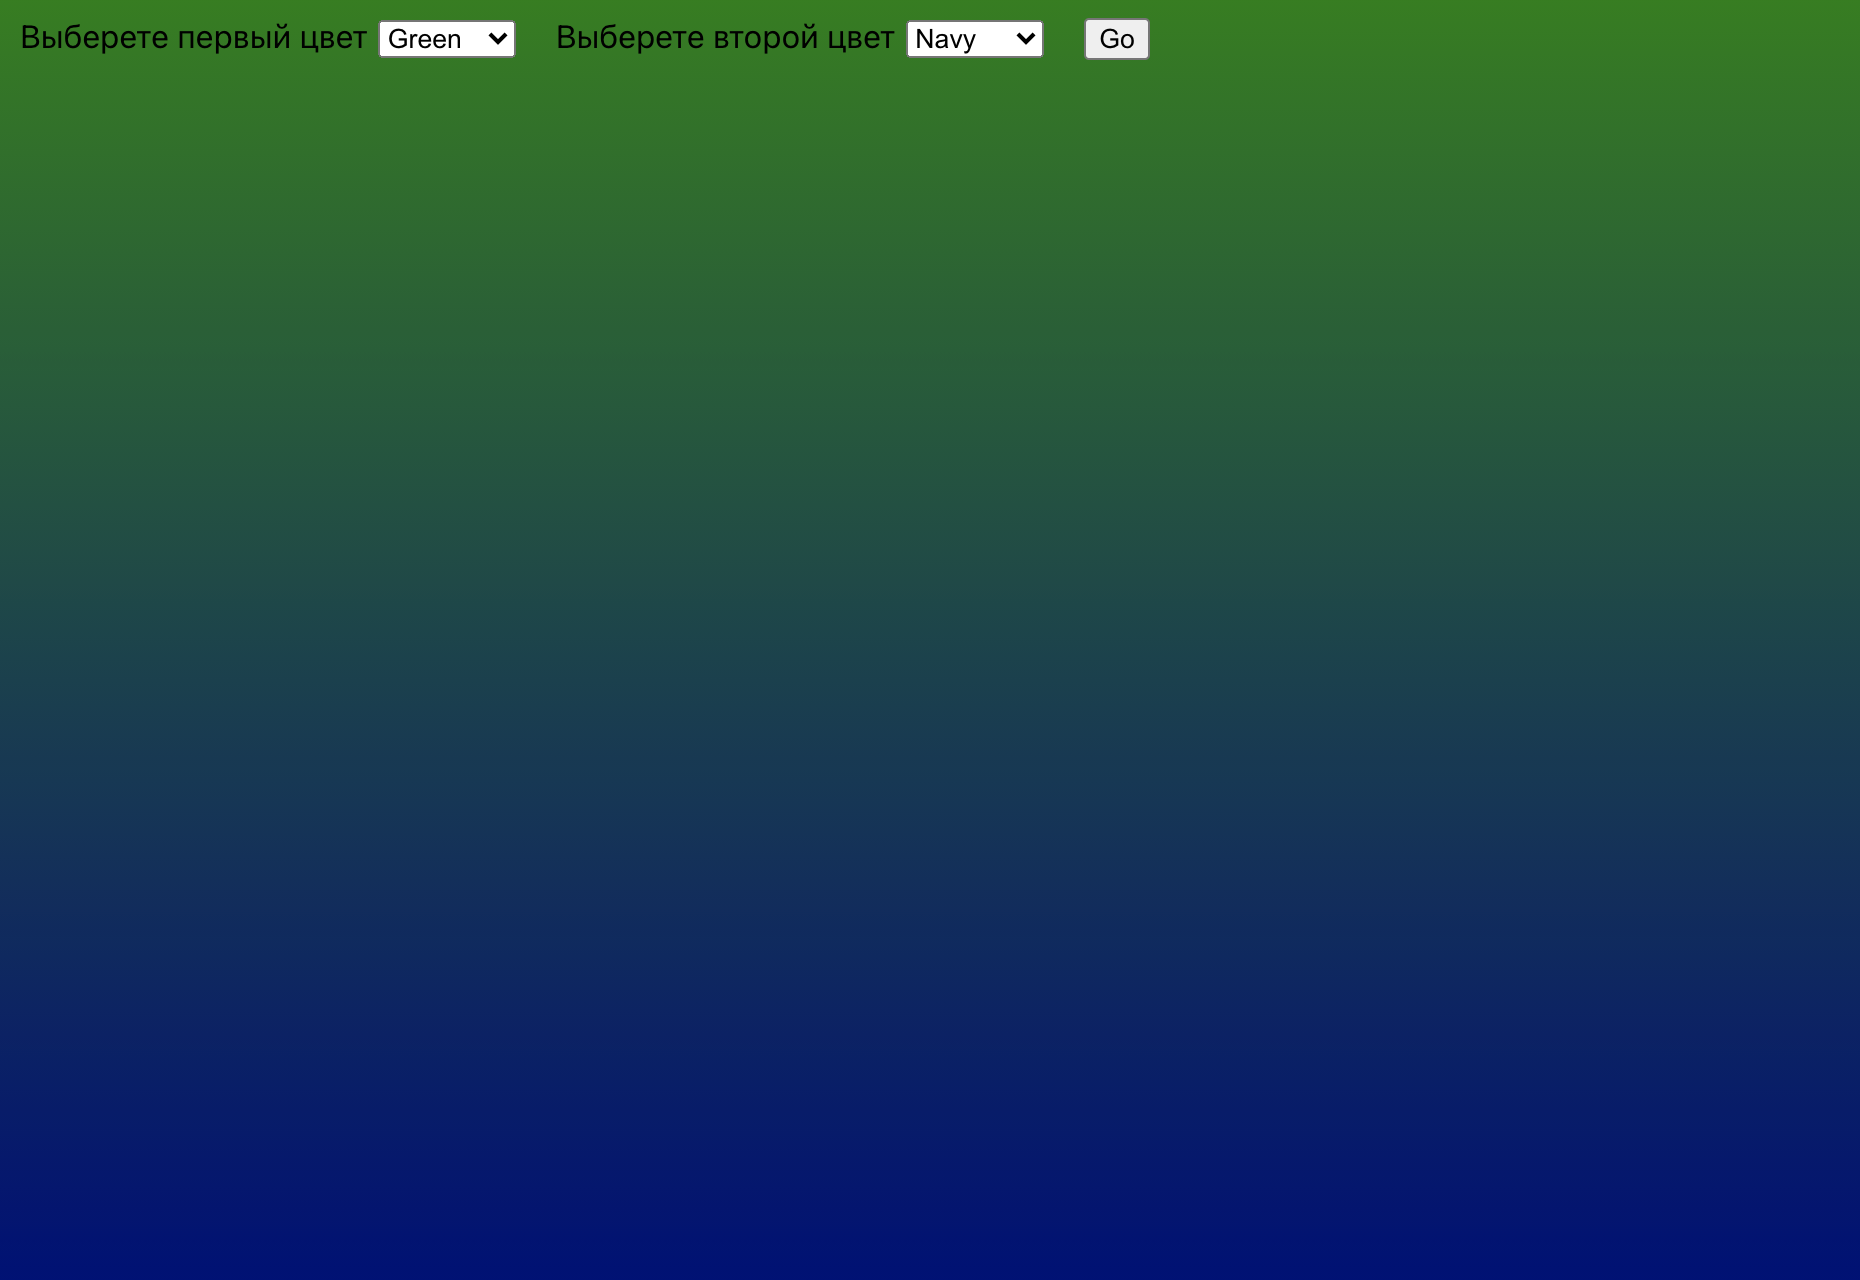
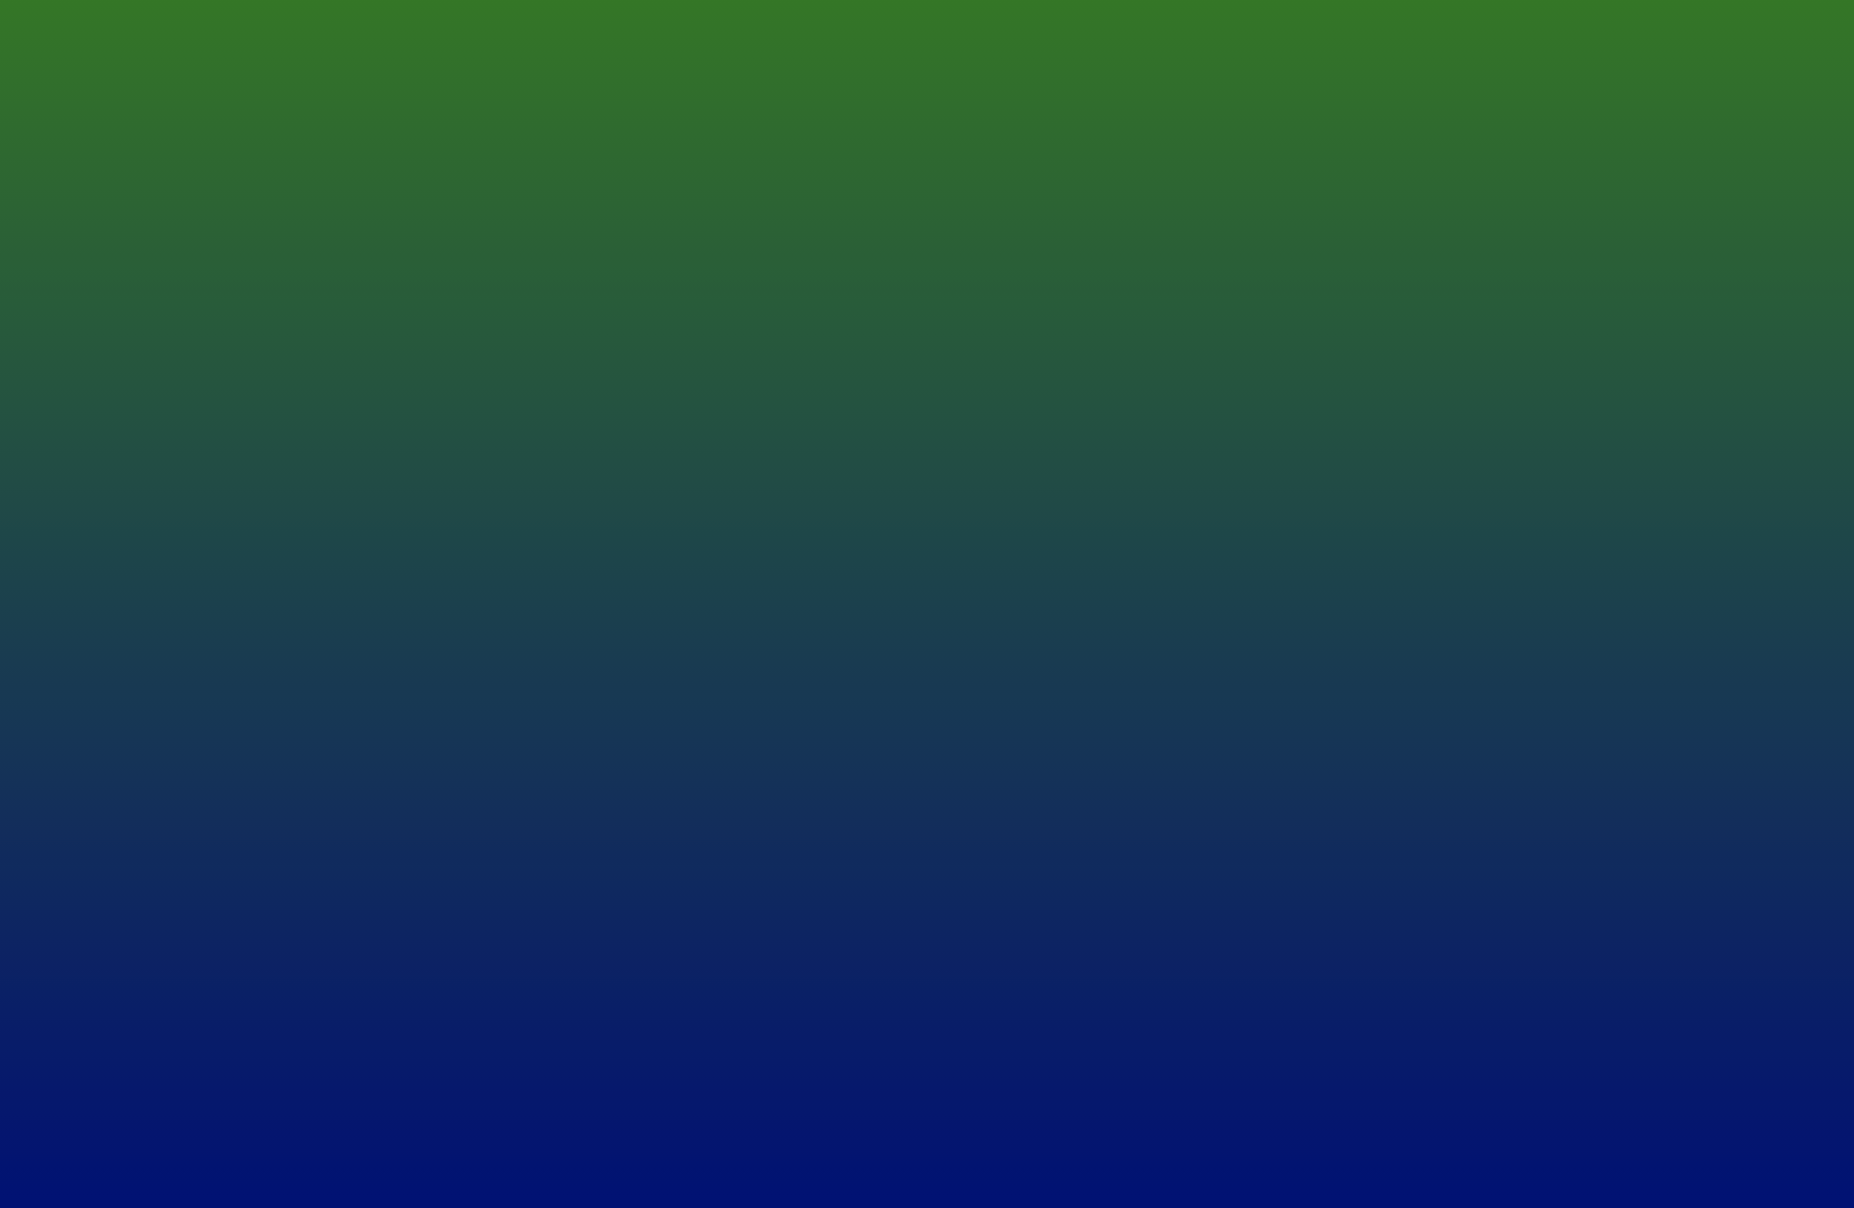
update works list and add react router

Changed region(s): [[0.3997, 0.0, 0.6149, 0.0613], [0.0307, 0.0, 0.2767, 0.0613], [0.3074, 0.0, 0.3689, 0.0613]]

diff --git a/src/index.js b/src/index.js
@@ -1,10 +1,11 @@
-import React from 'react';
-import ReactDOM from 'react-dom';
-import 'reset.css';
-import 'index.scss';
+import reportWebVitals from 'reportWebVitals'
+import React from 'react'
+import ReactDOM from 'react-dom'
+import 'reset.css'
+import 'index.scss'
 
-import App from 'App';
-import AgilePduDescription from 'components/WorksList/AgilePduStore';
+import App from 'App'
+import ProjectDescription from 'components/WorksList/ProjectDescription'
 
 import {
   BrowserRouter as Router, // глобальня обертка (можно в индекс джс)
@@ -12,17 +13,35 @@ import {
   Route,
 } from 'react-router-dom'
 
-import reportWebVitals from 'reportWebVitals';
+import { createBrowserHistory } from 'history'
+
+import { myWorksList } from 'components/WorksList/worksList'
+
+
+let history = createBrowserHistory()
+console.log(history.location.pathname)
+
+
 
 ReactDOM.render(
   <React.StrictMode>
     <Router>
-      <Switch>        
-        <Route path='/agile-pdu'>
-          <AgilePduDescription />     
-        </Route>
+      <Switch>
+        {Object.keys(myWorksList).map((item) => {
+          return (
+            <Route path={myWorksList[item].path} key={myWorksList[item].path}>
+              <ProjectDescription
+                title={myWorksList[item].title}
+                projectUrl={'/'}
+                srcCodeUrl={'/'}
+                img={myWorksList[item].imgSrc}
+                desciption={myWorksList[item].description}
+              />
+            </Route>
+          )
+        })}
         <Route exact path='/'>
-          <App />          
+          <App />
         </Route>
       </Switch>
     </Router>

diff --git a/src/components/WorksList/index.js b/src/components/WorksList/index.js
@@ -2,23 +2,19 @@ import './style.scss'
 import {myWorksList} from './worksList.js'
 
 import {Link} from 'react-router-dom'
+import { useMemo } from 'react'
 
-function WorkList() {
+function WorkList() {  
+  const dataList = useMemo(() => myWorksList, [])  
   return (
-
       <div className='workslist-container'>
         <h2>List of my works</h2>
         <div className='list'>
-          {/* <Link to='/agile-pdu' className='list__item'>
-            <img src={agilePduImg} alt='Project name'/>
-            <span>Agile-PDU online store</span>
-          </Link> */}
-          {Object.keys(myWorksList).map((item) => {
-            console.log(myWorksList)
+          {Object.keys(dataList).map((item) => {  
             return (
-              <Link key={myWorksList[item].title} to={myWorksList[item].path} className='list__item'>
-                <img src={myWorksList[item].imgSrc} alt={myWorksList[item].altText()}/>
-                <span>{myWorksList[item].title}</span>
+              <Link key={dataList[item].title} to={dataList[item].path} className='list__item'>
+                <img src={dataList[item].imgSrc} alt={dataList[item].altText()}/>
+                <span>{dataList[item].title}</span>
               </Link>
             )  
           })}

diff --git a/src/components/WorksList/style.scss b/src/components/WorksList/style.scss
@@ -77,5 +77,76 @@
 .project-description {
   background-color: #12232E;
   height: 100vh;
-  
+  display: flex;
+  flex-direction: column;
+  align-items: center;
+  text-align: center;
+  justify-content: space-around;
+  // overflow: scroll;
+
+  img {
+    width: 350px;
+  }
+
+  h1 {
+    font-size: 1.5em;
+    margin: 1em 0;
+  }
+
+  p {
+    padding: 0;
+  }
+
+  p, ul {
+    font-size: 1em;
+  }
+
+  a {
+    color: #EEFBFB;;
+    text-decoration: none;
+    cursor: pointer;
+    &:visited {
+      color: inherit;
+    }
+  }
+
+  ul {
+    border: #4DA8DA 1px solid;
+    margin: 1em 0;
+
+  }
+
+  .project-link {
+    // width: 100px;
+    // height: 50px;
+    border-bottom: #4DA8DA 1px solid;
+    // text-decoration: underline;
+    padding: 0.5em;
+    margin-right: 0.5em;
+    &:hover {
+      opacity: 0.5;
+    }
+  }
+
+  .home-link {
+      background-color: #4DA8DA;
+      border-radius: 20px;
+      padding: 0.5em 1em;
+      opacity: 0.7;
+      transition-duration: 300ms;
+      &:hover {
+        transform: scale(1.1);
+        opacity: 1;
+      }
+      margin: 1em;
+  }
+}
+
+@media screen and (min-width: 820px) {
+  .project-description {
+    img {
+      width: 550px;
+    }
+  }
+
 }

diff --git a/src/components/WorksList/ProjectDescription/index.js b/src/components/WorksList/ProjectDescription/index.js
@@ -1,0 +1,27 @@
+import '../style.scss'
+import { Link } from 'react-router-dom'
+
+function ProjectDescription(props) {
+  const {
+    title,
+    projectUrl,
+    srcCodeUrl,
+    img,
+    desciption,
+  } = props
+
+  return (
+    <div className='project-description'>
+      <div>
+        <h1>{title}</h1>
+        <img src={img} alt='img'/>
+        {desciption}
+        <a href={projectUrl} target='_blank' rel="noopener noreferrer" className='project-link'>Project Link</a>
+        <a href={srcCodeUrl} target='_blank' rel="noopener noreferrer" className='project-link'>Source Code Link</a>
+      </div>
+      <Link to='/' className='home-link'>Home</Link>
+    </div>
+  )
+}
+
+export default ProjectDescription

diff --git a/src/components/WorksList/worksList.js b/src/components/WorksList/worksList.js
@@ -9,6 +9,8 @@ import portfolioImg from 'shared/img/works_portfolio.png'
 import brainGamesImg from 'shared/img/works_brain-games.png'
 import jsSamplesImg from 'shared/img/works_js-samples.png'
 
+import { projectDescription } from './projectDescriptionData.jsx'
+
 export const myWorksList = {
   agilePdu: {
     title: 'Agile-PDU online store',
@@ -17,6 +19,7 @@ export const myWorksList = {
     altText() {
       return this.title + ' Image'
     },
+    description: projectDescription.agilePdu,
   },
   portfolio: {
     title: 'My Portfolio Website',

diff --git a/src/components/WorksList/projectDescriptionData.jsx b/src/components/WorksList/projectDescriptionData.jsx
@@ -1,0 +1,17 @@
+export const projectDescription = {
+  agilePdu: (
+    <>
+      <p>
+        General description
+        What is it?
+        What for?
+      </p>      
+      <ul>
+        <p>List of used technologies:</p>
+        <li>JS</li>
+        <li>React</li>
+        <li>Webpack</li>
+      </ul>
+    </>
+  ),
+}
